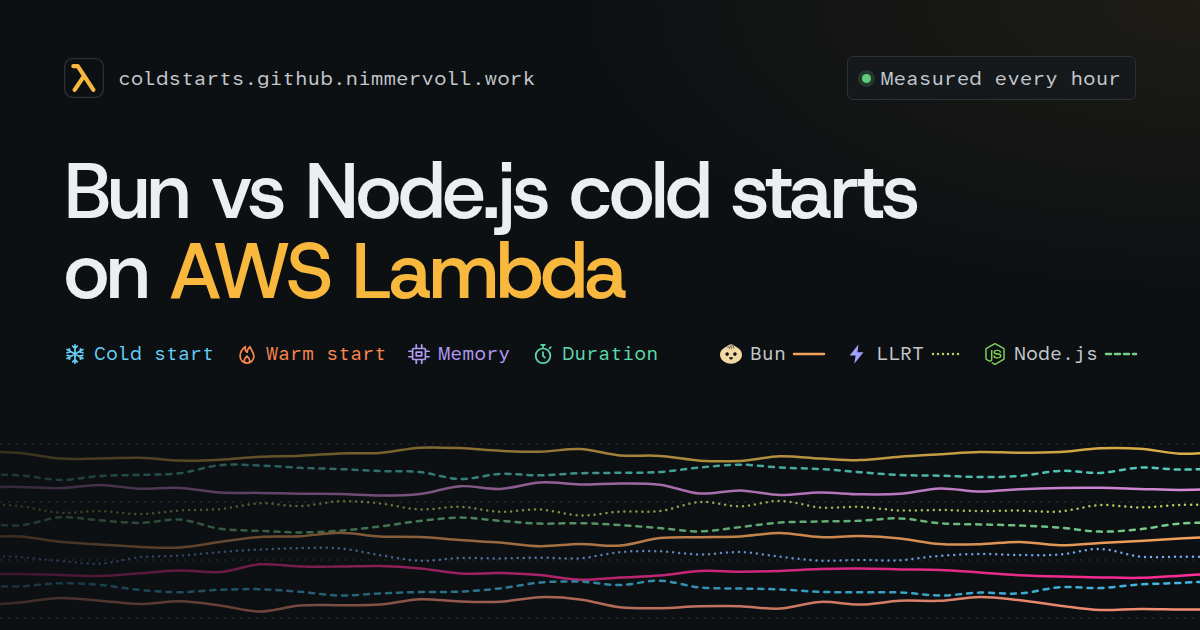
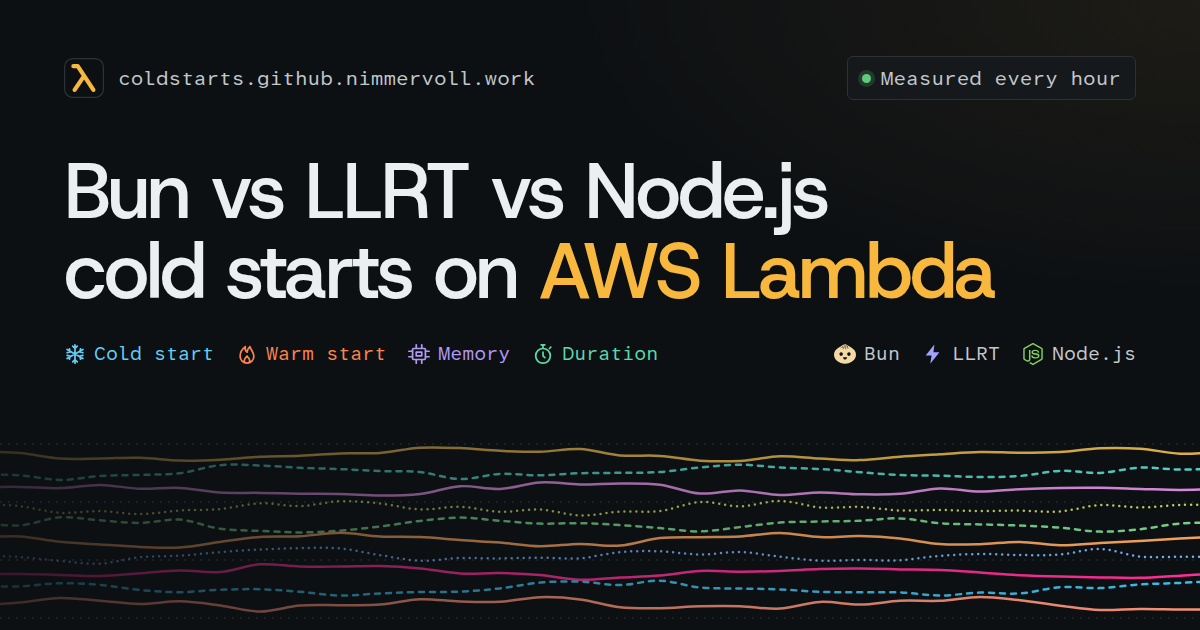
update og image

Changed region(s): [[0.0617, 0.2413, 0.8325, 0.4825], [0.5858, 0.5429, 0.9558, 0.573]]

diff --git a/web/og.html b/web/og.html
@@ -162,12 +162,6 @@
         height: 22px;
       }
 
-      .families svg {
-        width: 30px;
-        height: 4px;
-        overflow: visible;
-      }
-
       .chart {
         position: absolute;
         right: 0;
@@ -186,7 +180,7 @@
       <div class="live">Measured every hour</div>
     </header>
 
-    <h1>Bun vs Node.js cold starts<br />on <span class="lambda">AWS Lambda</span></h1>
+    <h1>Bun vs LLRT vs Node.js<br />cold starts on <span class="lambda">AWS Lambda</span></h1>
 
     <div class="lead">
       <div class="metrics">
@@ -225,51 +219,9 @@
         </span>
       </div>
       <div class="families">
-        <!-- data.ts's DASHES: Bun solid, LLRT dotted, Node.js dashed. -->
-        <span>
-          <img src="src/icons/bun.svg" alt="" />Bun
-          <svg>
-            <line
-              x1="0"
-              y1="2"
-              x2="30"
-              y2="2"
-              stroke="oklch(78% 0.13 60)"
-              stroke-width="2.5"
-              stroke-linecap="round"
-            />
-          </svg>
-        </span>
-        <span>
-          <img src="src/icons/llrt.svg" alt="" />LLRT
-          <svg>
-            <line
-              x1="1"
-              y1="2"
-              x2="30"
-              y2="2"
-              stroke="oklch(82% 0.14 115)"
-              stroke-width="2.5"
-              stroke-linecap="round"
-              stroke-dasharray="0 5"
-            />
-          </svg>
-        </span>
-        <span>
-          <img src="src/icons/nodejs.svg" alt="" />Node.js
-          <svg>
-            <line
-              x1="0"
-              y1="2"
-              x2="30"
-              y2="2"
-              stroke="oklch(78% 0.13 150)"
-              stroke-width="2.5"
-              stroke-linecap="round"
-              stroke-dasharray="5 4"
-            />
-          </svg>
-        </span>
+        <span> <img src="src/icons/bun.svg" alt="" />Bun </span>
+        <span> <img src="src/icons/llrt.svg" alt="" />LLRT </span>
+        <span> <img src="src/icons/nodejs.svg" alt="" />Node.js </span>
       </div>
     </div>
 

diff --git a/web/index.html b/web/index.html
@@ -74,7 +74,7 @@
     <meta property="og:image:height" content="630" />
     <meta
       property="og:image:alt"
-      content="Bun vs Node.js cold starts on AWS Lambda: cold start, warm start, memory and duration, measured every hour."
+      content="Bun vs LLRT vs Node.js cold starts on AWS Lambda: cold start, warm start, memory and duration, measured every hour."
     />
     <meta name="twitter:card" content="summary_large_image" />
     <title>Lambda cold starts: Bun vs LLRT vs Node.js</title>
